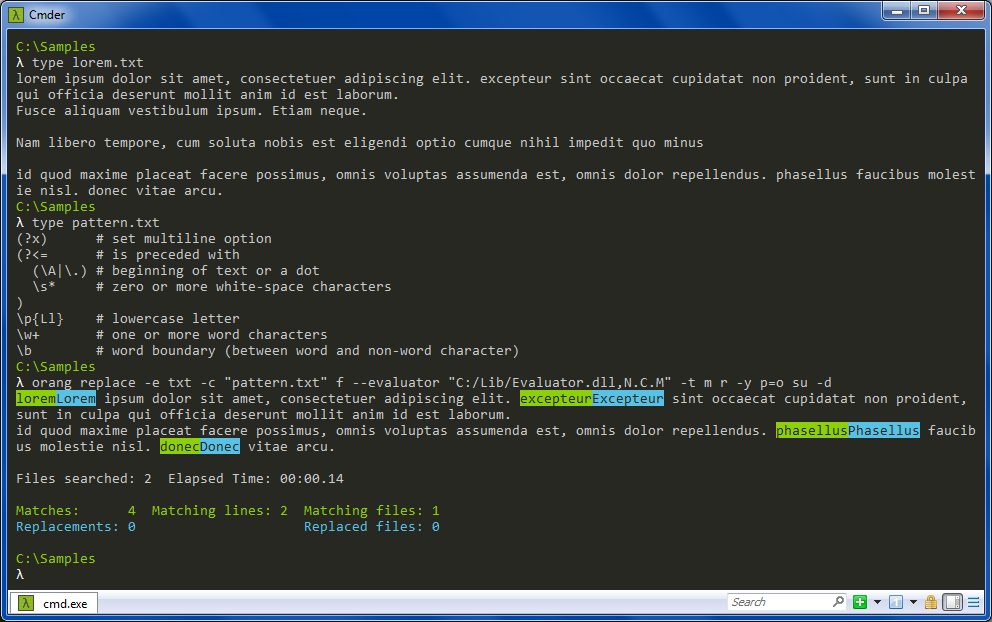
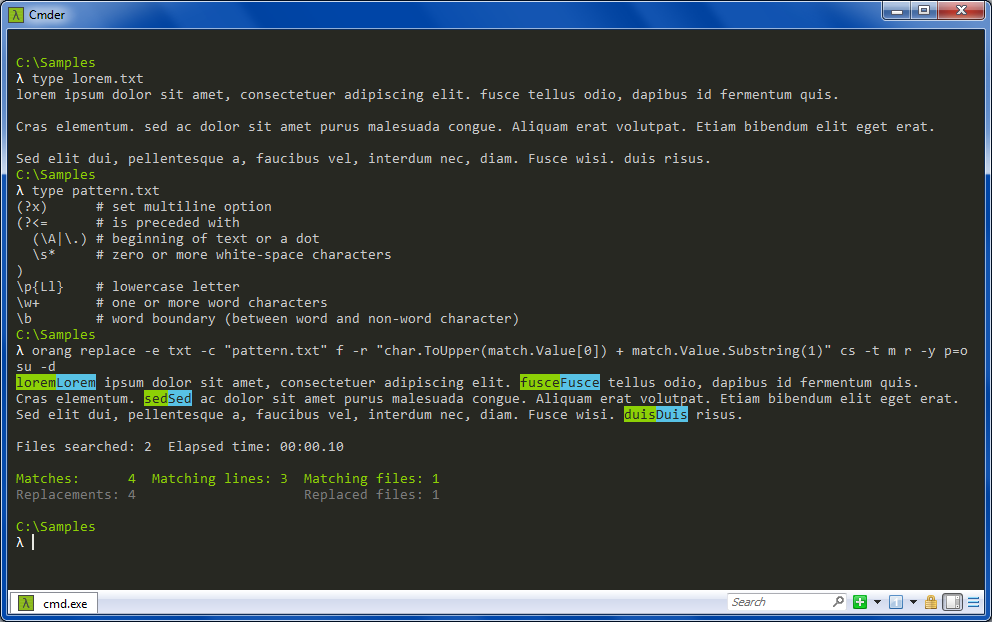
Change version to 0.1.1.0

diff --git a/docs/cli/AllowedValues.md b/docs/cli/AllowedValues.md
@@ -95,6 +95,7 @@
 | indent=\<INDENT>                | Indentation for a list of results\. Default indentation are 2 spaces\. |
 | l\[ine\-number\]                | Include line number\.                                                  |
 | m\[odified\-\]t\[ime\]          | Include file last modified time\.                                      |
+| no\-align                       | Do not align columns\.                                                 |
 | p\[ath\]=\<PATH\_DISPLAY>       |
 | s\[ize\]                        | Include file size\.                                                    |
 | s\[eparator\]=\<SEPARATOR>      | String that separate each value\.                                      |
@@ -256,11 +257,13 @@
 
 ## \<REPLACEMENT\_OPTIONS>
 
-| Value          | Description                                                                                 |
-| -------------- | ------------------------------------------------------------------------------------------- |
-| f\[rom\-file\] | Load replacement string from a file whose path is specified in \<REPLACEMENT> value\.       |
-| l\[iteral\]    | Replacement should be treated as a literal expression and not as a replacement expression\. |
-| e\[scape\]     | Interpret literals \\a, \\b, \\f, \\n, \\r, \\t and \\v as character escapes\.              |
+| Value          | Description                                                                                                                                                                                                                                                                                                                                                |
+| -------------- | ---------------------------------------------------------------------------------------------------------------------------------------------------------------------------------------------------------------------------------------------------------------------------------------------------------------------------------------------------------- |
+| f\[rom\-file\] | Load text from a file whose path is specified in \<REPLACEMENT> value\.                                                                                                                                                                                                                                                                                    |
+| l\[iteral\]    | Replacement should be treated as a literal expression and not as a replacement expression\.                                                                                                                                                                                                                                                                |
+| e\[scape\]     | Interpret literals \\a, \\b, \\f, \\n, \\r, \\t and \\v as character escapes\.                                                                                                                                                                                                                                                                             |
+| cs\[harp\]     | \<REPLACEMENT> is either expression\-body of a method with signature 'string M\(Match match\)' or a path to a code file that contains public method with signature 'string M\(Match match\)'\. Imported namespaces \(when inline expression is specified\): System System\.Collections\.Generic System\.Linq System\.Text System\.Text\.RegularExpressions |
+| from\-dll      | \<REPLACEMENT> is a path to a method in DLL file\. The format is 'DllPath,FullTypeName\.MethodName'\.                                                                                                                                                                                                                                                      |
 
 ## \<SORT\_OPTIONS>
 

diff --git a/docs/cli/replace-command.md b/docs/cli/replace-command.md
@@ -13,7 +13,6 @@ orang replace [<PATH>]
 [-y|--display]            <DISPLAY_OPTIONS>
 [-d|--dry-run]
 [   --encoding]           <ENCODING>
-[   --evaluator]          <EVALUATOR>
 [-e|--extension]          <EXTENSION_FILTER>
 [-h|--help]
 [-t|--highlight]          <HIGHLIGHT>
@@ -24,6 +23,7 @@ orang replace [<PATH>]
 [-n|--name]               <REGEX>
 [   --no-recurse]
 [-o|--output]             <OUTPUT_OPTIONS>
+[   --paths]              <PATH>
 [   --paths-from]         <FILE_PATH>
 [   --progress]
 [-p|--properties]         <FILE_PROPERTIES>
@@ -58,7 +58,7 @@ Regular expression for files' content\. Syntax is \<PATTERN> \[\<PATTERN\_OPTION
 
 **`[-y|--display] <DISPLAY_OPTIONS>`**
 
-Display of the results\. Allowed values are c\[ontent\]=\<CONTENT\_DISPLAY>, t \[context\]=\<NUM>, tb \[context\-before\]=\<NUM>, ta \[context\-after\]=\<NUM>, c\[ount\], c\[reation\-\]t\[ime\], indent=\<INDENT>, l\[ine\-number\], m\[odified\-\]t\[ime\], p\[ath\]=\<PATH\_DISPLAY>, s\[ize\], s\[eparator\]=\<SEPARATOR>, su\[mmary\] and trim\-line\.
+Display of the results\. Allowed values are c\[ontent\]=\<CONTENT\_DISPLAY>, t \[context\]=\<NUM>, tb \[context\-before\]=\<NUM>, ta \[context\-after\]=\<NUM>, c\[ount\], c\[reation\-\]t\[ime\], indent=\<INDENT>, l\[ine\-number\], m\[odified\-\]t\[ime\], no\-align, p\[ath\]=\<PATH\_DISPLAY>, s\[ize\], s\[eparator\]=\<SEPARATOR>, su\[mmary\] and trim\-line\.
 
 **`[-d|--dry-run]`**
 
@@ -67,10 +67,6 @@ Display which files should be updated but do not actually update any file\.
 **`[--encoding] <ENCODING>`**
 
 Encoding to use when a file does not contain byte order mark\. Default encoding is UTF\-8\.
-
-**`[--evaluator] <EVALUATOR>`**
-
-Path to the evaluator method to compute replacements\. The format is "LibraryPath,FullTypeName\.MethodName"\.
 
 **`[-e|--extension] <EXTENSION_FILTER>`**
 
@@ -112,6 +108,10 @@ Do not search subdirectories\.
 
 Path to a file that should store output\. Syntax is \<PATH> \[\<OUTPUT\_OPTIONS>\]\. Allowed values are e\[ncoding\]=\<ENCODING>, v\[erbosity\]=\<VERBOSITY> and a\[ppend\]\.
 
+**`[--paths] <PATH>`**
+
+Path to one or more files and/or directories that should be searched\.
+
 **`[--paths-from] <FILE_PATH>`**
 
 Read the list of paths to search from a file\. Paths should be separated by newlines\.
@@ -126,7 +126,7 @@ A filter for file properties\. Allowed values are c\[reation\-\]t\[ime\], m\[odi
 
 **`[-r|--replacement] <REPLACEMENT>`**
 
-Replacement pattern\. Syntax is \<REPLACEMENT> \[\<REPLACEMENT\_OPTIONS>\]\. Allowed values are f\[rom\-file\], l\[iteral\] and e\[scape\]\.
+Replacement pattern\. Syntax is \<REPLACEMENT> \[\<REPLACEMENT\_OPTIONS>\]\. Allowed values are f\[rom\-file\], l\[iteral\], e\[scape\], cs\[harp\] and from\-dll\.
 
 **`[-s|--sort] <SORT_OPTIONS>`**
 

diff --git a/docs/cli/rename-command.md b/docs/cli/rename-command.md
@@ -14,7 +14,6 @@ orang rename [<PATH>]
 [-y|--display]            <DISPLAY_OPTIONS>
 [-d|--dry-run]
 [   --encoding]           <ENCODING>
-[   --evaluator]          <EVALUATOR>
 [-e|--extension]          <EXTENSION_FILTER>
 [-h|--help]
 [-t|--highlight]          <HIGHLIGHT>
@@ -24,6 +23,7 @@ orang rename [<PATH>]
  -n|--name                <REGEX>
 [   --no-recurse]
 [-o|--output]             <OUTPUT_OPTIONS>
+[   --paths]              <PATH>
 [   --paths-from]         <FILE_PATH>
 [   --progress]
 [-p|--properties]         <FILE_PROPERTIES>
@@ -62,7 +62,7 @@ Regular expression for files' content\. Syntax is \<PATTERN> \[\<PATTERN\_OPTION
 
 **`[-y|--display] <DISPLAY_OPTIONS>`**
 
-Display of the results\. Allowed values are c\[reation\-\]t\[ime\], indent=\<INDENT>, m\[odified\-\]t\[ime\], p\[ath\]=\<PATH\_DISPLAY>, s\[ize\], s\[eparator\]=\<SEPARATOR> and su\[mmary\]\.
+Display of the results\. Allowed values are c\[reation\-\]t\[ime\], indent=\<INDENT>, m\[odified\-\]t\[ime\], no\-align, p\[ath\]=\<PATH\_DISPLAY>, s\[ize\], s\[eparator\]=\<SEPARATOR> and su\[mmary\]\.
 
 **`[-d|--dry-run]`**
 
@@ -71,10 +71,6 @@ Display which files or directories should be renamed but do not actually rename 
 **`[--encoding] <ENCODING>`**
 
 Encoding to use when a file does not contain byte order mark\. Default encoding is UTF\-8\.
-
-**`[--evaluator] <EVALUATOR>`**
-
-Path to the evaluator method to compute replacements\. The format is "LibraryPath,FullTypeName\.MethodName"\.
 
 **`[-e|--extension] <EXTENSION_FILTER>`**
 
@@ -112,6 +108,10 @@ Do not search subdirectories\.
 
 Path to a file that should store output\. Syntax is \<PATH> \[\<OUTPUT\_OPTIONS>\]\. Allowed values are e\[ncoding\]=\<ENCODING>, v\[erbosity\]=\<VERBOSITY> and a\[ppend\]\.
 
+**`[--paths] <PATH>`**
+
+Path to one or more files and/or directories that should be searched\.
+
 **`[--paths-from] <FILE_PATH>`**
 
 Read the list of paths to search from a file\. Paths should be separated by newlines\.
@@ -126,7 +126,7 @@ A filter for file properties\. Allowed values are c\[reation\-\]t\[ime\], m\[odi
 
 **`[-r|--replacement] <REPLACEMENT>`**
 
-Replacement pattern\. Syntax is \<REPLACEMENT> \[\<REPLACEMENT\_OPTIONS>\]\. Allowed values are f\[rom\-file\], l\[iteral\] and e\[scape\]\.
+Replacement pattern\. Syntax is \<REPLACEMENT> \[\<REPLACEMENT\_OPTIONS>\]\. Allowed values are f\[rom\-file\], l\[iteral\], e\[scape\], cs\[harp\] and from\-dll\.
 
 **`[-s|--sort] <SORT_OPTIONS>`**
 

diff --git a/README.md b/README.md
@@ -81,11 +81,13 @@ The option `-d, --dry-run` gives you opportunity to see the results before you a
 
 The option `-t, --highlight` with values `m[atch] r[eplacement]` gives you opportunity to see the match and the replacement side-by-side in the output.
 
-### Evaluator
+### Use C# Code to Compute Replacements
 
-The option '--evaluator' gives you opportunity to precisely define how the replacement string is computed.
-Evaluator is a path to a library (dll file) which contains method that has signature compatible with [MatchEvaluator](https://docs.microsoft.com/en-us/dotnet/api/system.text.regularexpressions.matchevaluator) i.e. `string M(Match match)`.
-Expected format is 'MyLib.dll,MyNamespace.MyClass.MyMethod'.
+Use `-r, --replacement <EXPRESSION> cs[harp]` syntax to specify C# inline expression.
+The expression is considered to be expression-body of a method with signature `string M(Match match)`
+
+Use `-r, --replacement <CODE_FILE_PATH> cs[harp] f[rom-file]` syntax to specify C# code file.
+This code file must contain public method with signature `string M(Match match)`.
 
 ### Load Pattern From a File
 
@@ -111,23 +113,6 @@ Note: Replacement string can be store in a file as well.
 
 Goal: Capitalize first character of a word at the beginning of the text or at the beginning of a sentence.
 
-Folder `C:/Lib` contains library `Evaluator.dll` which contains method `N.C.M`.
-
-```csharp
-using System.Text.RegularExpressions;
-
-namespace N
-{
-    public static class C
-    {
-        public static string M(Match match)
-        {
-            return char.ToUpper(match.Value[0]) + match.Value.Substring(1);
-        }
-    }
-}
-```
-
 File `pattern.txt` has following content:
 
 ```
@@ -145,14 +130,14 @@ File `pattern.txt` has following content:
 orang replace ^
  --extension txt ^
  --content "pattern.txt" from-file ^
- --evaluator "C:/Lib/Evaluator.dll,N.C.M" ^
+ --replacement "char.ToUpper(match.Value[0]) + match.Value.Substring(1)" csharp ^
  --highlight match replacement ^
  --display path=omit summary ^
  --dry-run
 ```
 or
 ```
-orang replace -e txt -c "pattern.txt" f --evaluator "C:/Lib/Evaluator.dll,N.C.M" -t m r -y p=o su -d
+orang replace -e txt -c "pattern.txt" f -r "char.ToUpper(match.Value[0]) + match.Value.Substring(1)" cs -t m r -y p=o su -d
 ```
 
 ![Capitalize first character in a sentence](/images/CapitalizeFirstCharInSentence.png)

diff --git a/docs/cli/find-command.md b/docs/cli/find-command.md
@@ -21,6 +21,7 @@ orang find [<PATH>]
 [-n|--name]               <REGEX>
 [   --no-recurse]
 [-o|--output]             <OUTPUT_OPTIONS>
+[   --paths]              <PATH>
 [   --paths-from]         <FILE_PATH>
 [   --progress]
 [-p|--properties]         <FILE_PROPERTIES>
@@ -54,7 +55,7 @@ Regular expression for files' content\. Syntax is \<PATTERN> \[\<PATTERN\_OPTION
 
 **`[-y|--display] <DISPLAY_OPTIONS>`**
 
-Display of the results\. Allowed values are c\[ontent\]=\<CONTENT\_DISPLAY>, t \[context\]=\<NUM>, tb \[context\-before\]=\<NUM>, ta \[context\-after\]=\<NUM>, c\[ount\], c\[reation\-\]t\[ime\], indent=\<INDENT>, l\[ine\-number\], m\[odified\-\]t\[ime\], p\[ath\]=\<PATH\_DISPLAY>, s\[ize\], s\[eparator\]=\<SEPARATOR>, su\[mmary\] and trim\-line\.
+Display of the results\. Allowed values are c\[ontent\]=\<CONTENT\_DISPLAY>, t \[context\]=\<NUM>, tb \[context\-before\]=\<NUM>, ta \[context\-after\]=\<NUM>, c\[ount\], c\[reation\-\]t\[ime\], indent=\<INDENT>, l\[ine\-number\], m\[odified\-\]t\[ime\], no\-align, p\[ath\]=\<PATH\_DISPLAY>, s\[ize\], s\[eparator\]=\<SEPARATOR>, su\[mmary\] and trim\-line\.
 
 **`[--encoding] <ENCODING>`**
 
@@ -95,6 +96,10 @@ Do not search subdirectories\.
 **`[-o|--output] <OUTPUT_OPTIONS>`**
 
 Path to a file that should store output\. Syntax is \<PATH> \[\<OUTPUT\_OPTIONS>\]\. Allowed values are e\[ncoding\]=\<ENCODING>, v\[erbosity\]=\<VERBOSITY> and a\[ppend\]\.
+
+**`[--paths] <PATH>`**
+
+Path to one or more files and/or directories that should be searched\.
 
 **`[--paths-from] <FILE_PATH>`**
 

diff --git a/docs/cli/copy-command.md b/docs/cli/copy-command.md
@@ -24,6 +24,7 @@ orang copy [<PATH>]
 [-n|--name]               <REGEX>
 [   --no-recurse]
 [-o|--output]             <OUTPUT_OPTIONS>
+[   --paths]              <PATH>
 [   --paths-from]         <FILE_PATH>
 [   --progress]
 [-p|--properties]         <FILE_PROPERTIES>
@@ -66,7 +67,7 @@ Regular expression for files' content\. Syntax is \<PATTERN> \[\<PATTERN\_OPTION
 
 **`[-y|--display] <DISPLAY_OPTIONS>`**
 
-Display of the results\. Allowed values are c\[ontent\]=\<CONTENT\_DISPLAY>, t \[context\]=\<NUM>, tb \[context\-before\]=\<NUM>, ta \[context\-after\]=\<NUM>, c\[ount\], c\[reation\-\]t\[ime\], indent=\<INDENT>, l\[ine\-number\], m\[odified\-\]t\[ime\], p\[ath\]=\<PATH\_DISPLAY>, s\[ize\], s\[eparator\]=\<SEPARATOR>, su\[mmary\] and trim\-line\.
+Display of the results\. Allowed values are c\[ontent\]=\<CONTENT\_DISPLAY>, t \[context\]=\<NUM>, tb \[context\-before\]=\<NUM>, ta \[context\-after\]=\<NUM>, c\[ount\], c\[reation\-\]t\[ime\], indent=\<INDENT>, l\[ine\-number\], m\[odified\-\]t\[ime\], no\-align, p\[ath\]=\<PATH\_DISPLAY>, s\[ize\], s\[eparator\]=\<SEPARATOR>, su\[mmary\] and trim\-line\.
 
 **`[-d|--dry-run]`**
 
@@ -111,6 +112,10 @@ Do not search subdirectories\.
 **`[-o|--output] <OUTPUT_OPTIONS>`**
 
 Path to a file that should store output\. Syntax is \<PATH> \[\<OUTPUT\_OPTIONS>\]\. Allowed values are e\[ncoding\]=\<ENCODING>, v\[erbosity\]=\<VERBOSITY> and a\[ppend\]\.
+
+**`[--paths] <PATH>`**
+
+Path to one or more files and/or directories that should be searched\.
 
 **`[--paths-from] <FILE_PATH>`**
 

diff --git a/docs/cli/move-command.md b/docs/cli/move-command.md
@@ -24,6 +24,7 @@ orang move [<PATH>]
 [-n|--name]               <REGEX>
 [   --no-recurse]
 [-o|--output]             <OUTPUT_OPTIONS>
+[   --paths]              <PATH>
 [   --paths-from]         <FILE_PATH>
 [   --progress]
 [-p|--properties]         <FILE_PROPERTIES>
@@ -66,7 +67,7 @@ Regular expression for files' content\. Syntax is \<PATTERN> \[\<PATTERN\_OPTION
 
 **`[-y|--display] <DISPLAY_OPTIONS>`**
 
-Display of the results\. Allowed values are c\[ontent\]=\<CONTENT\_DISPLAY>, t \[context\]=\<NUM>, tb \[context\-before\]=\<NUM>, ta \[context\-after\]=\<NUM>, c\[ount\], c\[reation\-\]t\[ime\], indent=\<INDENT>, l\[ine\-number\], m\[odified\-\]t\[ime\], p\[ath\]=\<PATH\_DISPLAY>, s\[ize\], s\[eparator\]=\<SEPARATOR>, su\[mmary\] and trim\-line\.
+Display of the results\. Allowed values are c\[ontent\]=\<CONTENT\_DISPLAY>, t \[context\]=\<NUM>, tb \[context\-before\]=\<NUM>, ta \[context\-after\]=\<NUM>, c\[ount\], c\[reation\-\]t\[ime\], indent=\<INDENT>, l\[ine\-number\], m\[odified\-\]t\[ime\], no\-align, p\[ath\]=\<PATH\_DISPLAY>, s\[ize\], s\[eparator\]=\<SEPARATOR>, su\[mmary\] and trim\-line\.
 
 **`[-d|--dry-run]`**
 
@@ -111,6 +112,10 @@ Do not search subdirectories\.
 **`[-o|--output] <OUTPUT_OPTIONS>`**
 
 Path to a file that should store output\. Syntax is \<PATH> \[\<OUTPUT\_OPTIONS>\]\. Allowed values are e\[ncoding\]=\<ENCODING>, v\[erbosity\]=\<VERBOSITY> and a\[ppend\]\.
+
+**`[--paths] <PATH>`**
+
+Path to one or more files and/or directories that should be searched\.
 
 **`[--paths-from] <FILE_PATH>`**
 

diff --git a/docs/cli/delete-command.md b/docs/cli/delete-command.md
@@ -23,6 +23,7 @@ orang delete [<PATH>]
 [-n|--name]               <REGEX>
 [   --no-recurse]
 [-o|--output]             <OUTPUT_OPTIONS>
+[   --paths]              <PATH>
 [   --paths-from]         <FILE_PATH>
 [   --progress]
 [-p|--properties]         <FILE_PROPERTIES>
@@ -60,7 +61,7 @@ Delete content of a file or directory but not the file or directory itself\.
 
 **`[-y|--display] <DISPLAY_OPTIONS>`**
 
-Display of the results\. Allowed values are c\[reation\-\]t\[ime\], indent=\<INDENT>, m\[odified\-\]t\[ime\], p\[ath\]=\<PATH\_DISPLAY>, s\[ize\], s\[eparator\]=\<SEPARATOR> and su\[mmary\]\.
+Display of the results\. Allowed values are c\[reation\-\]t\[ime\], indent=\<INDENT>, m\[odified\-\]t\[ime\], no\-align, p\[ath\]=\<PATH\_DISPLAY>, s\[ize\], s\[eparator\]=\<SEPARATOR> and su\[mmary\]\.
 
 **`[-d|--dry-run]`**
 
@@ -105,6 +106,10 @@ Do not search subdirectories\.
 **`[-o|--output] <OUTPUT_OPTIONS>`**
 
 Path to a file that should store output\. Syntax is \<PATH> \[\<OUTPUT\_OPTIONS>\]\. Allowed values are e\[ncoding\]=\<ENCODING>, v\[erbosity\]=\<VERBOSITY> and a\[ppend\]\.
+
+**`[--paths] <PATH>`**
+
+Path to one or more files and/or directories that should be searched\.
 
 **`[--paths-from] <FILE_PATH>`**
 

diff --git a/CHANGELOG.md b/CHANGELOG.md
@@ -1,3 +1,13 @@
+## 0.1.1 (2020-10-26)
+
+* Use C# code to compute replacements ([issue](https://github.com/JosefPihrt/Orang/issues/4))
+  * `--replace <CSHARP_EXPRESSION> cs[harp]`
+  * `--replace <CSHARP_CODE_FILE_PATH> cs[harp] f[rom-file]`
+* Deprecate option `--evaluator` and replace it with `--replace "DllPath,FullTypeName.MethodName" from-dll`
+* Add option `--display no-align` to disable alignment of columns
+* Add option `--paths`
+  * Use this option when you need to specify path(s) at a different than first position
+
 ## 0.1.0 (2020-09-01)
 
 * Add shortcut 'b' for option '--attributes-to-skip'
